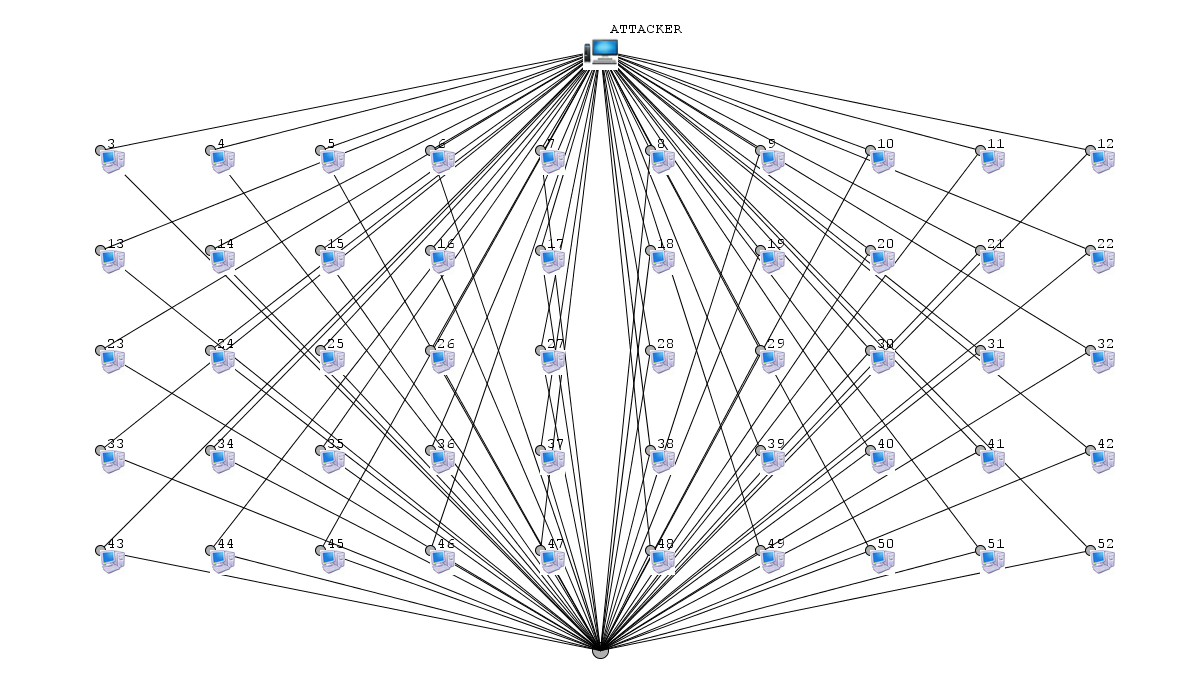
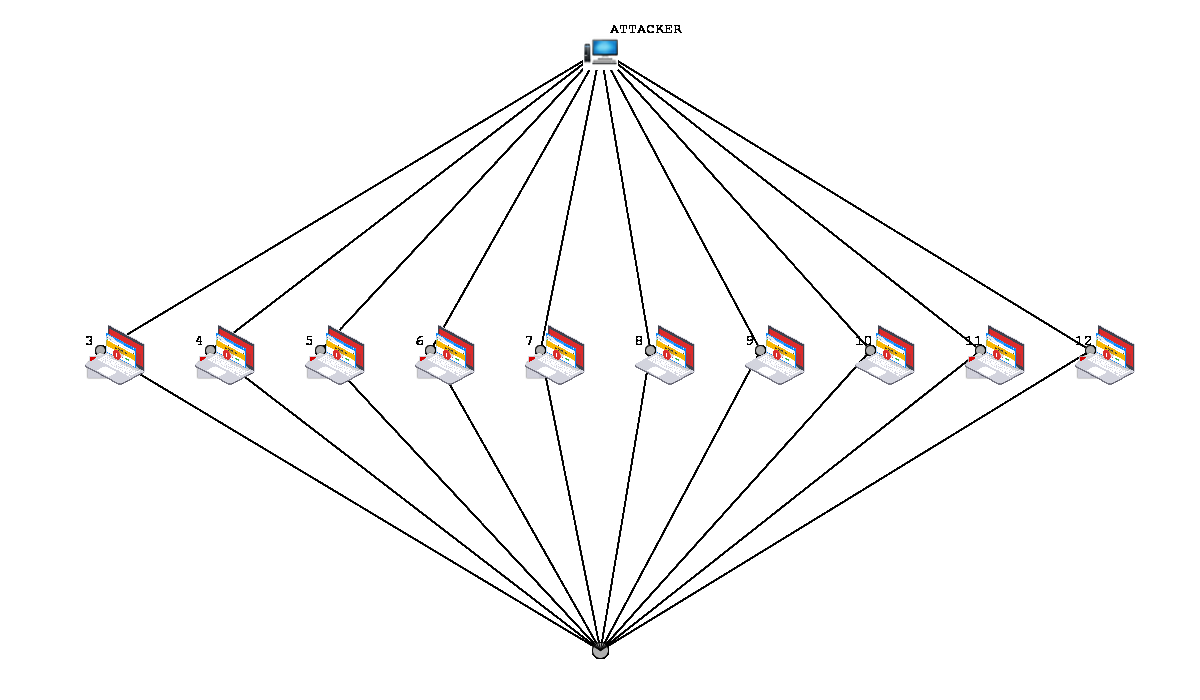
commit

diff --git a/src/graphic/ProcessingSimulation.java b/src/graphic/ProcessingSimulation.java
@@ -1,19 +1,24 @@
 package graphic;
 
 import bin.*;
+import bin.Package;
 import processing.core.*;
 import java.util.*;
 
 public class ProcessingSimulation extends PApplet{
 	
-	private static final int PIXEL_RANGE_NODE = 25, APPLET_WIDTH = 1200, APPLET_HEIGHT = 700, MATRIX_RANGE_PIXEL = 100, PIXEL_START_LEFT = 100,
+	private static final int PIXEL_RANGE_NODE = 60, APPLET_WIDTH = 1200, APPLET_HEIGHT = 700, MATRIX_RANGE_PIXEL = 100, PIXEL_START_LEFT = 100,
 							 MATRIX_RANGE_6 = 75, MATRIX_RANGE_5 = 100, MATRIX_RANGE_4 = 125, MATRIX_RANGE_3 = 150, MATRIX_RANGE_2 = 175, MATRIX_RANGE_1 = 200,
 							 NODES_PER_LINE = 10, PIXEL_START_TOP = 50;
 	
+	private static final int STAGE_INFECTING_VIRUS = 1, STAGE_INIT_NETWORK = 2;
 	private int numOfSlaves;
 	private Network network;
 	private DDoSSimulation GUIcontrol;
+	private int stage = ProcessingSimulation.STAGE_INIT_NETWORK;
 	PImage networkBackground;
+	boolean imageChaged = false;
+	boolean imageLoaded = false;
 	
 	public ProcessingSimulation(DDoSSimulation DDosGui) {
 		this.GUIcontrol = DDosGui;
@@ -29,9 +34,13 @@ public class ProcessingSimulation extends PApplet{
 	  drawNetworkBegging();
 	}
 	
-	private void drawNetworkBegging() {
-		
-		//draw master and target	
+	public void infectSlaves() { 
+		stage = ProcessingSimulation.STAGE_INFECTING_VIRUS;
+		network.infectSlaves(); 
+		draw(); 
+	}
+	
+	private void drawNetworkBegging() {	
 		stroke(0);
 		fill(175);
 		ellipse(network.getMasterNode().getX(), network.getMasterNode().getY(), 16, 16);
@@ -66,59 +75,108 @@ public class ProcessingSimulation extends PApplet{
 				fill(175);
 				ellipse(n.getX(), n.getY(), 10, 10);
 					
-				PImage img = loadImage("photo.png");
-				image(img, n.getX(), n.getY(), PIXEL_RANGE_NODE, PIXEL_RANGE_NODE);
+				PImage img = loadImage("server.png");
+				image(img, n.getX()-15, n.getY()-25, PIXEL_RANGE_NODE, PIXEL_RANGE_NODE);
 					
 				textFont(font);
 				fill(0);
-				text(n.getID(), n.getX()+7, n.getY()-2);
+				text(n.getID(), n.getX()-15, n.getY()-5);
 			}
 		}
 		
 		saveFrame("data/initalNetwork.png");
 		networkBackground = loadImage("initalNetwork.png");
+		imageLoaded = true;
 	}
 
+	private void update() {
+		if (stage == ProcessingSimulation.STAGE_INFECTING_VIRUS) {
+			//check if all nodes received packages and then change servers -> infected slaves
+			Set<Edge> allEdges = network.getAllEdges();
+			int infected = 0;
+			
+			for (Edge e: allEdges) {
+				Package virus = e.getVirusPackage();
+				if (virus != null && virus.packageReceived() == true) {
+					PImage img = loadImage("computer-alert.png");
+					Node n = e.getNodeTo();
+					image(img, n.getX()-15, n.getY()-25, PIXEL_RANGE_NODE, PIXEL_RANGE_NODE);
+					infected++;
+				}
+			}
+			
+			//wait for all slaves to be infected by virus
+			if (infected == numOfSlaves) {
+				for (Edge e: allEdges) {
+					Package virus = e.getVirusPackage();
+					if (virus != null && virus.packageReceived() == true) e.deleteVirusPackage();
+				}
+				saveFrame("data/initalNetwork.png");
+				imageChaged = true;
+			}
+			
+		} else if (stage == ProcessingSimulation.STAGE_INIT_NETWORK)
+			drawNetworkBegging();
+		
+	}
+	
 	public void draw() {
-		image(networkBackground, 0, 0, APPLET_WIDTH, APPLET_HEIGHT);
+		update();
 		
-		
-		Edge e = network.getEdge(network.getMasterNode(), network.getSlaveById(7));
-		
-		drawPackage(e);
+		if (imageChaged == true) {
+			networkBackground = loadImage("initalNetwork.png");
+			image(networkBackground, 0, 0, APPLET_WIDTH, APPLET_HEIGHT);
+			//imageChaged = false;
+		}
+			
+		if (imageLoaded == true)
+			image(networkBackground, 0, 0, APPLET_WIDTH, APPLET_HEIGHT);
 		
 		if (mousePressed == true) checkClickedComputer(mouseX, mouseY);
 		
+		Set<Edge> allEdges = network.getAllEdges();
+		for (Edge e: allEdges) {
+			Set<Package> allPackages = e.getPackages();
+			for (Package pack: allPackages)	
+				drawPackage(pack);
+		}
 	  }
 	
-	private void drawPackage(Edge e) {
-		if (e.packageNotReachedEnd()) {
-			float x = e.getPackageCordX();
-			float y = e.getPackageCordY();
+	private void drawPackage(Package pack) {
+		if (!(pack.packageReceived())) {
+			float x = pack.getX();
+			float y = pack.getY();
 			
 			float speedUp = 1;
 			float speedX = 0;
 			float speedY = 1*speedUp;
 			
-			if (e.getNodeFrom().getX() > e.getNodeTo().getX()) {
-				speedX = (float)(e.getNodeFrom().getX() - e.getNodeTo().getX()) / (float)(e.getNodeTo().getY() - e.getNodeFrom().getY()*speedUp);
+			if (pack.getEdge().getNodeFrom().getX() > pack.getEdge().getNodeTo().getX()) {
+				speedX = (float)(pack.getEdge().getNodeFrom().getX() - pack.getEdge().getNodeTo().getX()) / 
+						 (float)(pack.getEdge().getNodeTo().getY() - pack.getEdge().getNodeFrom().getY()*speedUp);
 				x = x - speedX*speedUp;
 			}
-			else if (e.getNodeFrom().getX() < e.getNodeTo().getX()) {
-				speedX = (float)(e.getNodeTo().getX() - e.getNodeFrom().getX()) / (float)(e.getNodeTo().getY() - e.getNodeFrom().getY()*speedUp);
+			else if (pack.getEdge().getNodeFrom().getX() < pack.getEdge().getNodeTo().getX()) {
+				speedX = (float)(pack.getEdge().getNodeTo().getX() - pack.getEdge().getNodeFrom().getX()) / 
+						 (float)(pack.getEdge().getNodeTo().getY() - pack.getEdge().getNodeFrom().getY()*speedUp);
 				x = x + speedX*speedUp;
 			}
 			
 			y = y + speedY;
 			
-			e.updatePackageCordX(x);
-			e.updatePackageCordY(y);
+			pack.setX(x);
+			pack.setY(y);
 			
 			stroke(0);
 			fill(175);
 			
-			PImage img = loadImage("packageIcon2.png");
-			image(img, x-12, y, PIXEL_RANGE_NODE, PIXEL_RANGE_NODE);
+			PImage img;
+			if (pack.getType() == Package.EMAIL_VIRUS)  
+				img = loadImage("email2.png");
+			else
+				img = loadImage("packageIcon2.png");
+			
+			image(img, x-15, y, PIXEL_RANGE_NODE/2, PIXEL_RANGE_NODE/2);
 		} 
 	}
 	
@@ -296,10 +354,6 @@ public class ProcessingSimulation extends PApplet{
 		else if (numOfSlaves <= 30 && numOfSlaves > 20) makeNetworkIn_3_lines(masterNode, targetNode);
 		else if (numOfSlaves <= 20 && numOfSlaves > 10) makeNetworkIn_2_lines(masterNode, targetNode);
 		else if (numOfSlaves <= 10) makeNetworkIn_1_lines(masterNode, targetNode);
-		
-		// testing
-		Edge e = network.getEdge(network.getMasterNode(), network.getSlaveById(7));
-		e.startSendingPackage();
 		
 	}
 

diff --git a/src/bin/Edge.java b/src/bin/Edge.java
@@ -1,39 +1,33 @@
 package bin;
 
+import java.util.*;
+
 public class Edge {
 	private Node nodeFrom;
 	private Node nodeTo;
 	private Network network;
-	private float cordPackageX, cordPackageY;
-	private boolean sendingPackage = false;
+	private Set<Package> packages;
+	private Package virusPackage = null;
 	
 	public Edge(Network network, Node nodeFrom, Node nodeTo) {
 		this.nodeFrom = nodeFrom;
 		this.nodeTo = nodeTo;
 		this.network = network;
-		
-		cordPackageX = 0;
-		cordPackageY = 0;
+		packages = new HashSet<Package>();
 	}
 	
 	public Node getNodeFrom() { return nodeFrom; }
 	public Node getNodeTo() { return nodeTo; }
 	
-	public void updatePackageCordX(float x) { cordPackageX = x;}
-	public void updatePackageCordY(float y) { cordPackageY = y;}
-	
-	public float getPackageCordX() { return cordPackageX; }
-	public float getPackageCordY() { return cordPackageY; }
-	
-	public void startSendingPackage() {
-		sendingPackage = true;
-		cordPackageX = nodeFrom.getX();
-		cordPackageY = nodeFrom.getY();
+	public void startSendingPackage(Package pack) {
+		pack.setX(nodeFrom.getX());
+		pack.setY(nodeFrom.getY());
+		packages.add(pack);
+		if (pack.getType() == Package.EMAIL_VIRUS) virusPackage = pack;
 	}
 	
-	public boolean packageNotReachedEnd() {
-		if (Math.ceil(cordPackageX) == nodeTo.getX() || Math.ceil(cordPackageY) == nodeTo.getY())
-			return false;
-		else return true;
-	}
+	public Set<Package> getPackages() { return packages; }
+	public Package getVirusPackage() { return virusPackage; }
+	
+	public void deleteVirusPackage() { virusPackage = null; }
 }

diff --git a/src/graphic/DDoSSimulation.java b/src/graphic/DDoSSimulation.java
@@ -28,7 +28,7 @@ public class DDoSSimulation {
 	private JTextField numSlavesTF, ttlTF, memoryTF, packagesizeTF; 
 	private boolean userInput = false, defaultInput = false, fileInput = false;
 	
-	private ProcessingSimulation procGraphic;
+	private ProcessingSimulation procGraphic = null;
 	private String[] pArgs = {"ProcessingSimulation "};
 	private int numSlavesConf = 0, ttlConf = 4, memoryConf = 0, packageConf = 32;
 	
@@ -36,7 +36,7 @@ public class DDoSSimulation {
 		//makePopUpStart();
 		makeWindow(true,true,true,true);
 		procGraphic = new ProcessingSimulation(this);
-		procGraphic.setNumOfSlaves(50);
+		procGraphic.setNumOfSlaves(10);
 		procGraphic.makeNetworkDefault();
 		runSimulation();
 	}
@@ -205,8 +205,18 @@ public class DDoSSimulation {
 		    public void keyPressed(KeyEvent e){
 		        if(e.getKeyCode() == KeyEvent.VK_ENTER){
 		        	e.consume();
-		        	//process this command
-		        	terminal.append("\n>Enter pressed...");
+		        	
+		        	String command = terminal.getText();
+		        	command = command.substring(1);
+		        	
+		        	if (command.equals("start infecting")) {
+		        		if (procGraphic == null) {
+		        			terminal.append("\n>Configure network first... \n>");
+		        		} else 
+		        			procGraphic.infectSlaves();
+		        		terminal.append("\n>Infecting done... \n>");
+		        	} 
+		        	
 		        }
 		    }
 

diff --git a/src/bin/Package.java b/src/bin/Package.java
@@ -1,0 +1,40 @@
+package bin;
+
+public class Package {
+	public static final int EMAIL_VIRUS = 1, PACKAGE = 2;
+	
+	private Edge edge;
+	private int size;
+	private int type;
+	private float cordX = 0, cordY = 0;
+	private boolean received = false;
+	
+	public Package(Edge e, int size, int type) {
+		edge = e;
+		this.size = size;
+		this.type = type;
+	}
+	
+	public void setX(float x) { 
+		cordX = x; 
+		boolean over = packageReceived();
+		if (over) received = true;
+	}
+	public void setY(float y) { 
+		cordY = y; 
+		boolean over = packageReceived();
+		if (over) received = true;
+	}
+	public float getX() { return cordX; }
+	public float getY() { return cordY; }
+	
+	public Edge getEdge() { return edge; }
+	
+	public boolean packageReceived() {
+		if (Math.ceil(cordX) == edge.getNodeTo().getX() || Math.ceil(cordY) == edge.getNodeTo().getY())
+			return true;
+		else return false;
+	}
+	
+	public int getType() { return type; }
+}

diff --git a/src/bin/Network.java b/src/bin/Network.java
@@ -43,4 +43,14 @@ public class Network {
 		
 		return null;
 	}
+
+	public void infectSlaves() {
+		//making all email virus packages and preparing them to be drawn
+		for(Edge e: allEdges) {
+			if (e.getNodeFrom().equals(getMasterNode())) {
+				Package pack = new Package(e, 32, Package.EMAIL_VIRUS);
+				e.startSendingPackage(pack);
+			}
+		}
+	}
 }
